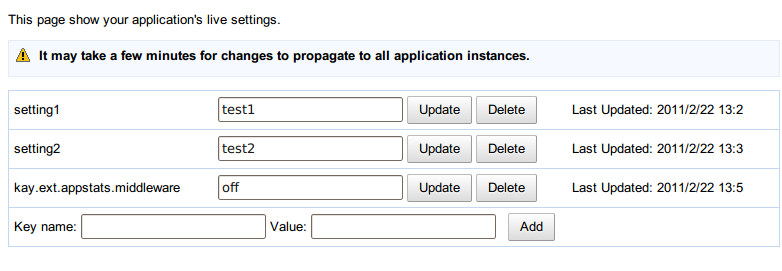
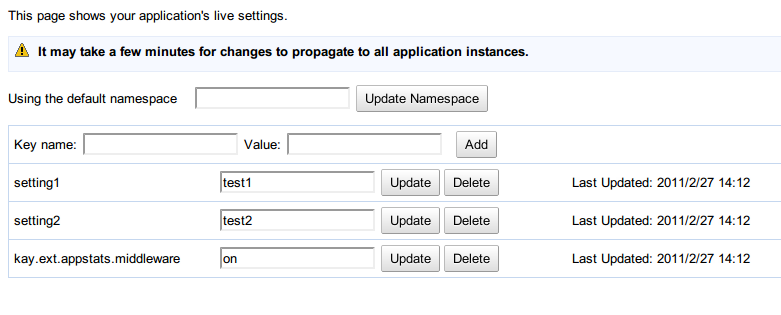
Updated the live settings docs to include info about namespaces

Changed region(s): [[0.0, 0.2657, 1.0, 0.9151], [0.0, 0.1181, 0.6761, 0.2362], [0.0, 0.0295, 0.3688, 0.1181]]

diff --git a/docs/source/extensions.rst b/docs/source/extensions.rst
@@ -322,6 +322,9 @@ that can be changed without redeploying the application. This can allow for
 certain things like turning on and off appstats or other middleware without
 redeploying an application.
 
+Installation
+----------------
+
 The Live Settings extension is installed by adding ``kay.ext.live_settings`` to
 your :attr:`settings.INSTALLED_APPS`.
 
@@ -333,9 +336,12 @@ your :attr:`settings.INSTALLED_APPS`.
         # ...
     )
 
+Usage
+-----------------
+
 Live settings are string key to string value key-value pairs. These key-value
 pairs are stored stored persistenly in the datastore and cached in instance
-memory and in memcached. However, because of this caching settings values may
+memory and in memcached. However, because of this caching, settings values may
 take some time to propagate to all of your application instances.  Values in
 instance memory time out every minute by default. Values in memcached are set
 when settings are modified, and never expire (Though memcached keys can be
@@ -368,6 +374,22 @@ Settings can also be retrieved and set in bulk:
         "my.settings.key": "new_value",
         "my.other.setting": "other_value",
     })
+
+Because the live settings feature extension relies on memcache and the
+datastore live settings can be saved in seperate namespaces. By default live
+settings are stored in the default namespace regardless of the current set
+namespace. However, the namespace can be specified for each operation.
+
+.. code-block:: python
+
+    from kay.ext.live_settings import live_settings
+
+    value = live_settings.get("my.settings.key", "default_value", namespace="mynamespace")
+
+    live_settings.set("my.settings.key", "new-value", namespace="mynamespace")
+
+The Custom Admin Page
+-----------------------------------------------
 
 Modifications to keys can be done via the Live Settings custom admin page as
 well.  It may take a few minutes for settings to propagate to all application
